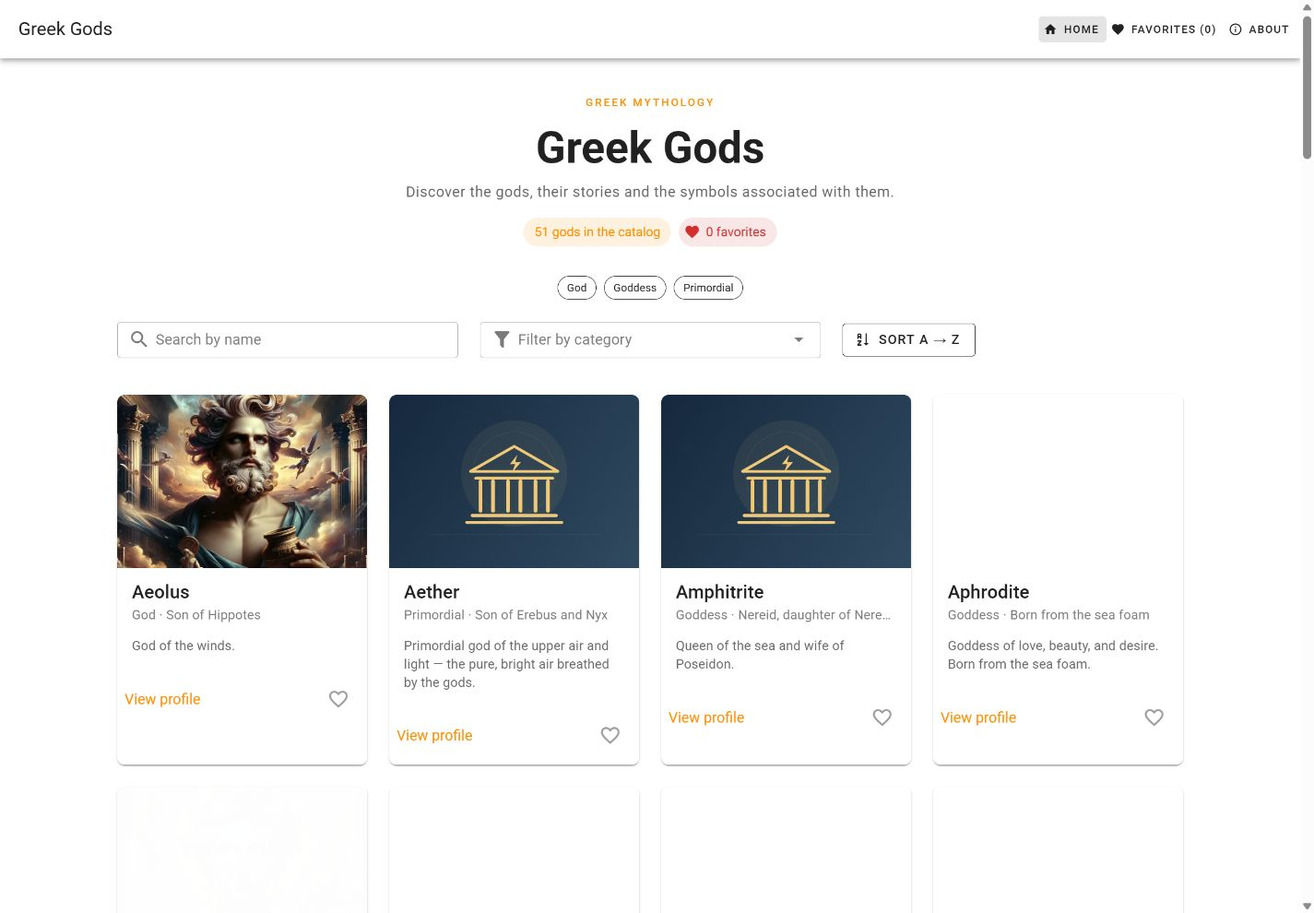
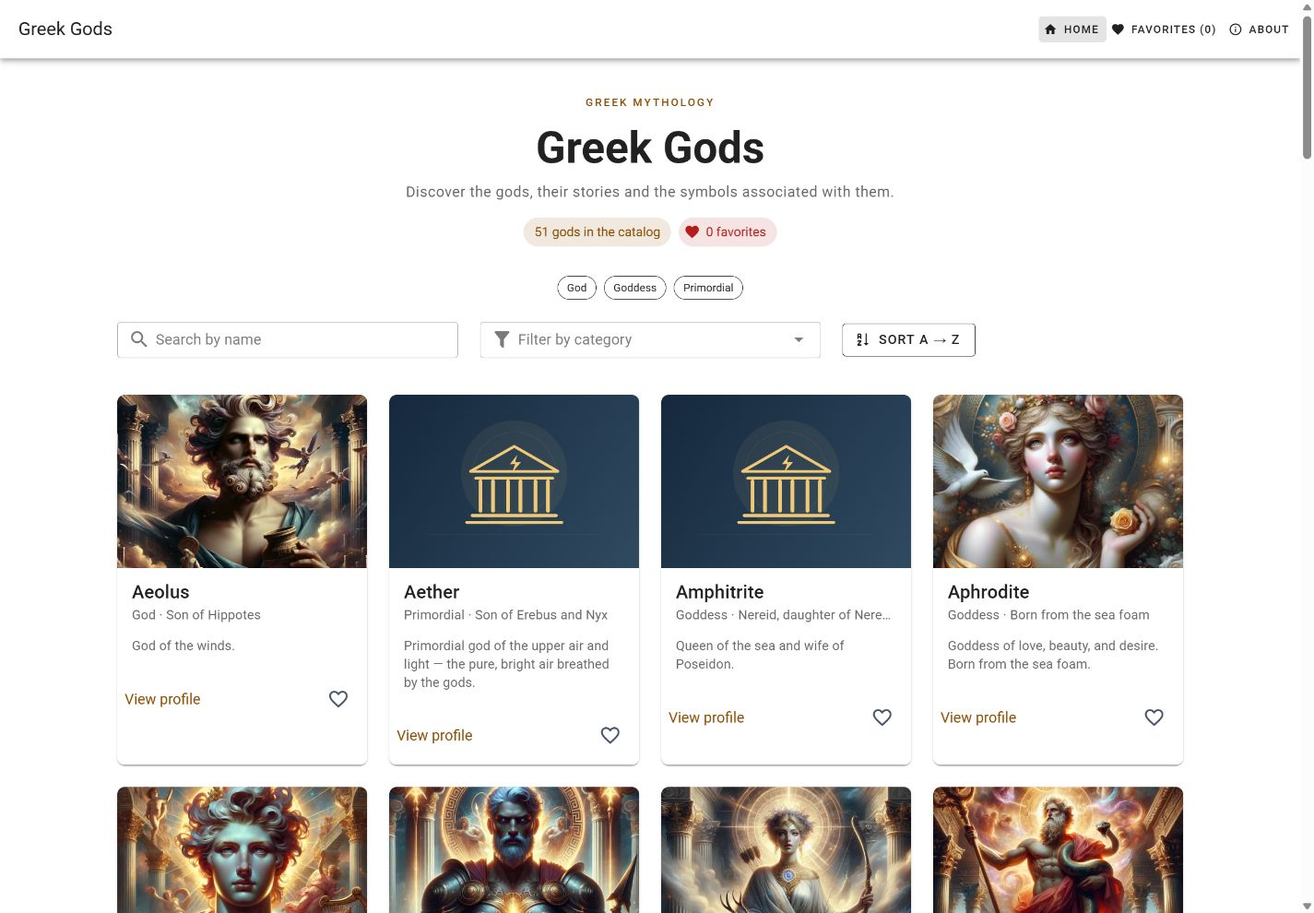
docs: align project documentation with the actual assessment brief

diff --git a/README.md b/README.md
@@ -1,143 +1,210 @@
 # Greek Gods
 
-A Vue 3 and Vuetify application for exploring Greek mythology. It loads gods from the DIVTEC API, displays their portraits and details, and lets visitors search, filter, sort and save favorites. The interface and API content are in English.
+[Live application on Vercel](https://294-projet-dieu-grec-segalor.vercel.app/) · [GitHub Pages](https://loris-seganfredo.github.io/294-projet-dieuGrec-segalor/) · [Source code](https://github.com/Loris-seganfredo/294-projet-dieuGrec-segalor)
 
-This personal project covers **sequences 1–5 (steps 1–17)** of the [DEV JS Pokédex exercise](https://devjs.ch/exercices/pokedex-vuetify/e1.html). Forms, authentication and API mutations from later sequences are outside its scope.
+This Vue 3 and Vuetify project follows the [individual assessment brief](https://tirtho.notion.site/Projet-individuel-valuatif-Application-Vue-3-Vuetify-avec-API-268e74c07f7c80e5822adb530f7a6027) and the DEV JS exercises through **sequence 5, steps 1–17**. The interface and content are in English. Forms, authentication and API mutations from later sequences are outside this delivery.
 
-- [Live site](https://loris-seganfredo.github.io/294-projet-dieuGrec-segalor/)
-- [Favorites](https://loris-seganfredo.github.io/294-projet-dieuGrec-segalor/#/favorites)
-- [Source repository](https://github.com/Loris-seganfredo/294-projet-dieuGrec-segalor)
+## 1. Project presentation
 
-## Purpose and audience
+### Concept
 
-The application is a small reference catalog for students and visitors discovering mythology. A visitor can find a deity, read its profile and keep a personal selection in the browser. The Greek mythology data adapts the course's Pokémon examples to a different subject.
+Greek Gods is a reference catalog for students and visitors discovering mythology. Visitors can find a deity, read its profile and save a personal selection. The public DIVTEC API provides names, categories, descriptions, portraits and relationships without an API key.
 
-## Screenshots
+The project adapts the course's Pokémon examples to Greek mythology. The student's personal reason for choosing this subject still needs to be recorded in section 6.
 
-Desktop, with four cards per row:
+### Main features
+
+- A responsive catalog with portraits, names and descriptions.
+- Case-insensitive name search, category filtering and A–Z/Z–A sorting.
+- Detailed profiles, an About page and unknown-page handling.
+- Favorites with immediate visual feedback and browser persistence.
+- Loading indicators, network errors with retry and empty-state messages.
+- A default Greek temple illustration for missing or failed portraits.
+- Keyboard focus indicators and contrasting colors for light and dark system themes.
+
+### Screenshots
 
 ![Greek Gods on desktop](docs/screenshots/home-desktop.png)
 
-[Mobile screenshot — one card per row](docs/screenshots/home-mobile.png)
+[Mobile screenshot](docs/screenshots/home-mobile.png) · [Dark theme screenshot](docs/screenshots/home-dark.png)
 
-These screenshots were taken from the running application during the 3 November 2026 audit.
+## 2. Learning path
 
-## Run locally
+### Resources
 
-Use Node.js 22 or later. From the project directory:
+The main learning material is the [DEV JS Pokédex exercise](https://devjs.ch/exercices/pokedex-vuetify/e1.html), adapted to the Greek API. Official Vue, Vuetify, Pinia, Vue Router and Axios documentation supports the implementation. Links are collected in section 7.
+
+### Recorded progression
+
+The dates below come from Git. They show the project's development, rather than proving individual learning or attendance at weekly meetings.
+
+| Date | Recorded work |
+| --- | --- |
+| 22 September 2026 | Initial project skeleton. |
+| 20 October | Pinia store, list/detail integration, complete API pagination and GitHub Pages base path. |
+| 26 October | Axios configuration, environment variables, loading indicators and error handling. |
+| 2 November | Search, category filter, alphabetical sorting and persistent favorites. |
+| 3 November | English interface, routing fixes, fallback images, exercise audit, then comparison with the actual assessment brief. Props/emits, API service separation, contrast and keyboard focus were improved. |
+
+The student's own account of resources studied, difficult concepts and progress is still to be supplied. Weekly teacher meetings are required by the brief; the repository does not establish whether they took place.
+
+## 3. Tools and methodology
+
+### Environment
+
+- Vue 3, Vuetify 3, Pinia, Vue Router, Axios and Vite.
+- npm for dependency installation; ESLint for code checks.
+- Git and GitHub for version history; Vercel and GitHub Pages for publication.
+- OpenAI Codex desktop for the assisted implementation, review and testing described in section 5.
+
+### Installation and run
+
+Use Node.js 22 or later:
 
 ```sh
+git clone https://github.com/Loris-seganfredo/294-projet-dieuGrec-segalor.git
+cd 294-projet-dieuGrec-segalor
 npm ci
 npm run dev
 ```
 
-The API defaults to `https://apis.divtec.me/api/greek`. To change it, copy `.env.example` to `.env` and set `VITE_API_URL`, then restart Vite. No API key is required for this public endpoint. Variables beginning with `VITE_` are included in the browser bundle, so they must not contain secrets.
+Vite normally starts at `http://localhost:3000/`. Use the URL printed in the terminal if that port is occupied. Stop it with `Ctrl+C`. A separate API server is not needed.
 
-Vite starts at `http://localhost:3000/` if that port is free. Use the URL printed in the terminal. Stop the local server with `Ctrl+C`; a separate API server is not needed.
+To change the API address, copy `.env.example` to `.env`, set `VITE_API_URL` and restart Vite. The default is `https://apis.divtec.me/api/greek`. No API key is required. `.env` is ignored by Git; `.env.example` is tracked. Variables starting with `VITE_` are public in the browser bundle and must not contain secrets.
 
 ```sh
+npx eslint .
 npm run build
 npm run preview
-npx eslint .
 ```
 
-`npm run lint` also applies ESLint's automatic fixes.
+`npm run lint` also applies automatic ESLint fixes.
 
-## Implemented concepts
+### Components, props and events
 
-| Sequence | Application |
-| --- | --- |
-| 1 — Components and navigation | Responsive card grid, reusable `GodCard` with a `god` prop, home/about/detail pages and unknown-route handling. |
-| 2 — Pinia | Shared gods, categories and favorites state; getters and actions; initialization from `App.vue`. |
-| 3 — Axios and environment | Central Axios client, configurable API URL, loading/error states, request timeout and retry. |
-| 4 — Search, filter and sort | `v-model` controls and chained computed values: category → search → alphabetical sort. |
-| 5 — Favorites | Favorite IDs, toggle action, JSON/localStorage persistence, reusable cards on a dedicated favorites page and confirmation feedback. |
+`GodCard` receives two required props: `god` and `isFavorite`. It emits `toggle-favorite` with the selected god. The home and favorites pages handle that event through `useFavoriteFeedback()`, which calls the store action and updates the shared snackbar state. There is no global event bus.
 
-## How it works
+The heart uses `@click.stop.prevent`: `.stop` stops propagation to the card and `.prevent` cancels the linked card's default navigation. The detail page uses the same favorite handler. `GodImage` is reused for portraits and fallback illustrations. `AppFooter` receives its text through a slot.
 
-- `src/stores/godStore.js` loads all API pages and exposes the shared data. Favorites store IDs, not copies of complete god objects.
-- `src/pages/index.vue` derives the displayed list using computed values. Sorting operates on a copy, preserving the store's source order.
-- `src/components/GodCard.vue` displays each god and opens its detail route. The heart uses `@click.stop.prevent`: `.stop` prevents propagation, while `.prevent` cancels the link's default navigation.
-- `src/pages/gods/[id].vue` reads the route ID and retrieves the corresponding god from the store.
-- `src/pages/favorites.vue` reuses `GodCard` and displays an empty-state message when there are no favorites.
-- `src/components/GodImage.vue` displays the API portrait or a bundled Greek temple illustration when the URL is missing or the image fails to load.
-- `src/composables/favoriteFeedback.js` shares confirmation state. The snackbar lives in the layout so removing the last favorite does not destroy its confirmation.
-
-`JSON.stringify()` converts the favorite IDs into the text stored under `god_favorites`; `JSON.parse()` restores them. Favorites belong to the current browser and origin, so localhost and GitHub Pages have separate lists. They are not synchronized across devices. Obsolete IDs are removed only after a complete successful API load.
-
-## API and data flow
-
-The public DIVTEC Greek API was selected because it provides names, categories, descriptions, portraits and relationships for the project's subject without requiring authentication.
+### API choices and limits
 
 | Resource used | Purpose |
 | --- | --- |
-| `GET https://apis.divtec.me/api/greek/gods?page=1` | Load the first page and read `pagination.pages`. |
-| `GET /gods?page=2`, then subsequent pages on the same API base | Load the complete catalog before publishing it to the store. |
-| Image paths returned by the API, resolved against `https://apis.divtec.me` | Display available portraits. |
+| `GET https://apis.divtec.me/api/greek/gods?page=1` | Load the first page and read the page count. |
+| `GET /gods?page=2`, then subsequent pages on the same base | Load the entire catalog before updating the store. |
+| Image paths from the response, resolved against `https://apis.divtec.me` | Load portraits. |
 
-The list response contains `data` and `pagination`. The audit found 51 entries over three pages; this is observed API data, not a hard-coded count. Detail pages use `getGodById()` from the loaded store, so they do not make another detail request. Categories are derived from the same catalog.
+The response contains `data` and `pagination`. During verification it contained 51 entries over three pages. The count is not hard-coded. Categories are derived from the loaded objects; detail pages use the store's `getGodById()` instead of making another request.
+
+Requests have a ten-second timeout. No API quota guarantee has been verified. A failed request produces an error with a retry button. No partial catalog is published after a failed page. Favorites are cleaned only after every API page succeeds.
+
+The brief explicitly waives the mock/offline requirement for **2026–2027**. This application therefore displays an honest error instead of silently substituting fictional data.
+
+### Architecture and data flow
+
+| Location | Responsibility |
+| --- | --- |
+| `src/plugins/axios.js` | Shared Axios client and environment configuration. |
+| `src/services/godApi.js` | HTTP requests, response validation and pagination. |
+| `src/stores/godStore.js` | Shared state, getters, initialization and favorite persistence. |
+| `src/pages/` | Home, detail, favorites, About and not-found views. |
+| `src/components/` | Reusable card, image, header and footer. |
+| `src/composables/favoriteFeedback.js` | Favorite action with shared confirmation feedback. |
+| `src/plugins/vuetify.js`, `src/styles/` | Theme colors, keyboard focus and animation. |
 
 ```mermaid
 flowchart TD
-    App[App.vue onMounted] --> Init[godStore.init]
-    Init --> Restore[Restore favorite IDs]
-    Init --> Axios[Shared Axios client]
-    Axios --> API[Paginated DIVTEC API]
-    API --> Store[Pinia gods and categories]
-    Store --> Filter[Category computed]
-    Filter --> Search[Search computed]
-    Search --> Sort[Sort a copied array]
-    Sort --> Cards[GodCard on home]
-    Store --> Detail[Detail page by route ID]
-    Store --> FavoriteObjects[getFavorites]
-    FavoriteObjects --> FavoriteCards[GodCard on favorites]
-    Cards --> Toggle[toggleFavorite action]
-    FavoriteCards --> Toggle
-    Toggle --> Storage[JSON favorite IDs in localStorage]
-    Storage --> Restore
+    App[App.vue initializes once] --> Store[Pinia store]
+    Store --> Service[godApi service]
+    Service --> Axios[Axios client]
+    Axios --> API[DIVTEC API pages]
+    API --> Store
+    Store --> Computed[Category then search then sort]
+    Computed --> Page[Home page]
+    Store --> Favorites[Favorites page]
+    Page -->|god and isFavorite props| Card[GodCard]
+    Favorites -->|god and isFavorite props| Card
+    Card -->|toggle-favorite event| Handler[Page handler]
+    Handler --> Action[Store toggleFavorite]
+    Action --> Storage[JSON IDs in localStorage]
+    Handler --> Snackbar[Shared confirmation]
+    Store --> Detail[Profile selected by route ID]
 ```
 
-API availability and content are external dependencies. No quota guarantee has been verified. Requests have a ten-second timeout; an error is displayed with a retry button. The app does not silently replace a failed API response with fictional data. Favorite storage can be unavailable or cleared by browser settings, and users are warned when persistence fails.
+The computed chain derives a view of the store. Sorting uses a copied array, so it cannot reorder the source. Favorites store numeric IDs, not entire objects. `JSON.stringify()` writes them under `god_favorites`; `JSON.parse()` restores them.
 
-## Deployment and routing
+### Versioning and publication
 
-Pushing `main` runs the GitHub Pages workflow. It builds with the repository base path and publishes `dist/`.
+Work is committed by feature or correction and pushed to `main`. The 2026–2027 brief explicitly permits using `main` without weekly milestone branches. The historical commits have been preserved.
 
-The router uses hash URLs, such as `/#/gods/1`. GitHub Pages therefore serves the same entry page for every route, and refreshing a detail page does not require server rewrite rules or an HTML file for every god.
+GitHub Pages builds with the repository base path. Hash routes such as `/#/gods/1` support direct access and reloading on static hosting. The deployment script keeps older clean URLs working through redirects; `/favoris` remains an alias for `/favorites`.
 
-`scripts/create-pages-redirects.mjs` generates compatibility redirects during deployment. Previous clean URLs, including `/favoris/` and `/gods/1`, lead to their hash-route equivalents. `/favoris` remains an alias for `/favorites`. An unknown route displays the application's not-found page.
+## 4. Tests and validation
 
-## Verification checklist
+The [assessment audit](docs/assessment-audit.md) maps the actual brief to evidence and records remaining personal requirements. The [earlier exercise audit](docs/exam-audit.md) covers the sequence 1–5 baseline only.
 
-- The complete API list loads; an unavailable API produces an error message with a retry button.
-- Search is case-insensitive; clearing the field restores the list.
-- Category filtering combines with search and A–Z/Z–A sorting.
-- Clicking a card opens its detail page; clicking the heart only toggles the favorite.
-- Favorite icons and counters update immediately, with brief confirmation messages.
-- Favorites survive a reload and can be removed from the favorites page, including the last item.
-- Home, favorites, detail and unknown routes work after direct navigation and reload.
-- Browser console, production build and ESLint are checked after changes.
+The verification covers:
 
-The [sequence 1–5 audit](docs/exam-audit.md) records the criteria checked, runtime evidence and the boundaries of this verification.
+- Complete real-API loading, pagination, malformed responses, partial failure and retry.
+- Search, filter and sort combinations without mutating source data.
+- Card navigation, favorite events, persistence after reload and removal of the last favorite.
+- Keyboard activation with Tab, Enter and Space; visible focus on navigation, cards, buttons and fields.
+- Text and control contrast in light and dark themes, including tonal messages.
+- Mobile and desktop layouts, missing images, invalid IDs and unknown pages.
+- ESLint, production build, deployment status and the running public pages.
 
-## Sources and AI assistance
+The API service/store and shared favorite feedback were also checked with isolated Node scripts using the actual sources, real Vue/Pinia and simulated API/storage. These checks were assisted by Codex; they are not claimed as tests personally written or performed by the student.
 
-God descriptions, relationships and images come from the [DIVTEC Greek API](https://apis.divtec.me/api/greek/gods). Image availability and content depend on that API.
+## 5. Use of artificial intelligence
 
-The project uses [Vue](https://vuejs.org/), [Vue Router](https://router.vuejs.org/), [Pinia](https://pinia.vuejs.org/), [Vuetify](https://vuetifyjs.com/) and [Axios](https://axios-http.com/).
+### Tool and context
 
-Codex assisted with implementation, debugging, documentation and verification. This records the assistance used; it does not claim that every part was written manually or that the student has already mastered every concept.
+OpenAI Codex was used through the desktop application for implementation, explanations, debugging, source review, documentation and tests. Exact model versions used throughout earlier sessions were not recorded. Reliable authorship percentages are not available, so no percentages are invented.
 
-The tool used was OpenAI Codex through the desktop application. Exact model versions for earlier sessions and reliable percentages of manual versus assisted work were not recorded. Assistance included the Pinia/API integration, search and favorites, routing fixes, English interface, fallback image, tests and this documentation. The implementation was adapted to the actual Greek API, including its pagination and numeric IDs. Personal learning claims and authorship percentages must be supplied honestly by the student, rather than inferred from passing tests.
+### Assistance and adaptation
 
-## Limits and possible improvements
+| Area | Assistance provided and project-specific adaptation |
+| --- | --- |
+| API and store | Pagination, numeric IDs, actual Greek fields and Pinia initialization. |
+| Search and favorites | Chained computed values, ID persistence and handling of unavailable storage. |
+| Components and routing | Reusable cards, explicit props/emits, hash routes and independent heart clicks. |
+| UI and accessibility | English text, image fallback, theme contrast and visible keyboard focus. |
+| Validation and documentation | Logic checks, browser scenarios, screenshots and comparison against the supplied brief. |
 
-- Favorites are local to one browser and site address; there is no account synchronization.
-- The catalog follows the API's terminology and includes a few Roman deities. This is disclosed on the About page.
-- A missing portrait uses the default illustration. The application does not supply an invented portrait for each deity.
-- A future iteration could preserve search settings when returning from a profile, add a documented offline cache, or improve long-card text layouts.
-- Forms and authentication belong to later course sequences and are intentionally outside this delivery.
+The project started from an existing student repository. Its earlier manual contributions cannot be reliably separated from assistance by counting lines or commits. The student's own contribution and learning account is still required.
 
-## Personal reflection
+Passing tests does not prove that the student understands the implementation. The assessment requires that understanding, including the ability to explain and modify the code during the oral defense.
 
-The technical audit is complete for the documented scope. Before an oral assessment, the student still needs to explain the code and write their own account of difficulties, learning and independent contributions if requested by the teacher. Those personal statements cannot be established by an automated audit.
+## 6. Personal review
+
+### Student reflection — awaiting personal input
+
+This part must be written from the student's experience. It has not been invented by the assistant. The student needs to record:
+
+- Why Greek mythology was chosen.
+- What they implemented or understood independently.
+- The concepts they learned and those still needing practice.
+- The difficulties encountered, help received and solutions they can explain.
+- What they are proud of and what they would improve.
+
+### Technical difficulties recorded in the project
+
+The work addressed API pagination, publishing under a GitHub Pages subpath, invalid routes, favorite persistence, clicks on a heart inside a linked card, failed portraits and insufficient color contrast. These are observed project issues; they are not claims of personal mastery.
+
+### Current limits and possible improvements
+
+- Favorites belong to one browser and site address. They do not synchronize across devices.
+- API availability and portrait content are external dependencies. The default image covers absent or broken portraits.
+- The API includes a few Roman deities and provides its own categories. The About page explains this.
+- For a much larger catalog, visual pagination or load-more controls could limit rendered cards. The current catalog contains 51 entries.
+- Search state could be retained when returning from a profile. An offline cache could be added later if needed.
+- Forms and authentication belong to later course sequences and are outside the requested scope.
+
+## 7. References and sources
+
+- [Actual individual assessment brief, 2026–2027](https://tirtho.notion.site/Projet-individuel-valuatif-Application-Vue-3-Vuetify-avec-API-268e74c07f7c80e5822adb530f7a6027).
+- [DEV JS Pokédex exercises, steps 1–17](https://devjs.ch/exercices/pokedex-vuetify/e1.html).
+- [DIVTEC Greek API endpoint](https://apis.divtec.me/api/greek/gods), source of descriptions, relationships and portraits.
+- [Vue documentation](https://vuejs.org/guide/introduction.html), [Vuetify components](https://vuetifyjs.com/en/components/all/), [Pinia](https://pinia.vuejs.org/), [Vue Router](https://router.vuejs.org/) and [Axios](https://axios-http.com/).
+- W3C guidance: [text contrast](https://www.w3.org/WAI/WCAG22/Understanding/contrast-minimum.html), [control contrast](https://www.w3.org/WAI/WCAG22/Understanding/non-text-contrast.html), [visible focus](https://www.w3.org/WAI/WCAG22/Understanding/focus-visible.html).
+- AI assistance is described in section 5.

diff --git a/docs/assessment-audit.md b/docs/assessment-audit.md
@@ -1,0 +1,79 @@
+# Individual assessment audit
+
+Date: 3 November 2026. Reference: the [teacher's Notion assessment brief](https://tirtho.notion.site/Projet-individuel-valuatif-Application-Vue-3-Vuetify-avec-API-268e74c07f7c80e5822adb530f7a6027), read in full, including the 2026–2027 exceptions and README template.
+
+This assessment is broader than the exercise checklists. The earlier [sequence 1–5 audit](exam-audit.md) did not establish full compliance with this brief. It did not adequately verify contrast, explicit component events or the required documentation structure.
+
+## Findings and corrections
+
+| Finding | Change |
+| --- | --- |
+| The card used props but performed its own store action; no explicit business emit was demonstrated. | `GodCard` now receives `god` and `isFavorite`, emits `toggle-favorite`, and the pages handle the event. |
+| Several orange/gray labels and tonal colors lacked sufficient contrast. | Semantic light/dark theme colors replace the fixed colors, including info/warning/error messages. Subtitle opacity is explicitly set to 1 to avoid double attenuation. |
+| Default focus feedback was subtle. | A contrasting 3px keyboard outline is applied to buttons and linked cards; field outlines use the primary color. |
+| HTTP pagination and validation lived inside the store. | The dedicated `services/godApi.js` handles requests and returns a complete validated catalog. Pinia retains application state and actions. |
+| README structure did not match the seven required sections. | README reorganized into presentation, learning, tools/method, tests, AI use, personal review and references. Unverified personal claims remain explicitly pending. |
+
+## Requirements and evidence
+
+| Assessment requirement | Current evidence | Status |
+| --- | --- | --- |
+| Vue 3 + Vuetify 3, public HTTPS/JSON API | Dependencies and DIVTEC integration; 51 real entries loaded | Verified |
+| List and complete detail view | Reusable cards and `pages/gods/[id].vue` | Verified |
+| Relevant search, filter and sort | Case-insensitive name search, category select, alphabetical toggle | Verified |
+| Interactive feature with visible state | Heart icon/color, counter, animation and snackbar | Verified |
+| Persistence after reload | Favorite IDs serialized in `god_favorites`; real browser reload tested | Verified |
+| At least two Vue Router routes | Home, detail, favorites, About and unknown route | Verified |
+| Loading, error and empty states | Skeleton/status, retryable error alert, empty catalog/search/favorites messages | Verified |
+| User feedback and invalid navigation | Snackbar, storage/network alerts, missing god/page messages | Verified |
+| Modular components, clear props/emits | Required card props, declared `toggle-favorite` event, shared image/header/footer | Verified |
+| Global state and dedicated API code | Pinia store, Axios client and API service; no global event bus | Verified |
+| Responsive layout | One column on mobile, four on desktop, no horizontal overflow in the tested views | Verified |
+| Explicit labels and keyboard access | Search/select labels, heart labels and state, image alt text; Tab/Enter/Space tested | Verified |
+| Visible keyboard focus | Card/button outline and 2px focused field outline observed | Verified |
+| Correct basic contrast | Light/dark text, icon and tonal colors checked; see ratios below | Verified for checked colors |
+| Pagination if the list is too large | API pagination is complete; 51 cards use lazy images. Visual pagination is not unconditionally required by the brief. | Appropriate to current data |
+| Mock/offline fallback | Explicitly waived for 2026–2027 | Not required this year |
+| Weekly milestone branches | Explicitly waived for 2026–2027; `main` is allowed | Not required this year |
+| Clean repository and meaningful commits | Existing history preserved; corrections committed by purpose | Verified |
+| Public deployment and installation instructions | Vercel/Pages, clone/install/run, `.env.example` and build commands | Verified separately from code |
+| Seven-section README, screenshots, references, AI declaration | Technical sections completed and screenshots updated | Present |
+| Personal learning path, contributions and reflection | Factual Git chronology and assistance are documented; the student's own account is not supplied | Student input required |
+| Weekly teacher meetings | Required by the brief; cannot be proven by the repository | Student confirmation required |
+| Oral defense and possible live modification | Topics and a demo sequence are listed below | Must be demonstrated by the student |
+
+## Validation after the corrections
+
+- **13 assertions** passed for the shared favorite action/feedback, including persistence, snackbar restart and removal of the final favorite.
+- **39 assertions** passed against the real API-service/store sources with simulated Axios/storage: complete pagination, malformed responses, simultaneous/repeated initialization, a failed second page, preservation of favorites and successful retry.
+- In the browser, Tab reached the heart, Enter added a favorite and Space removed it without navigating. Enter on the card opened the correct profile.
+- Adding a favorite from the profile, reloading, then removing it from the favorites page worked. The empty state and removal confirmation remained visible.
+- The focused search field had a solid 2px primary-colored outline at full opacity. Navigation and favorite buttons showed the explicit 3px outline.
+- Both light and dark themes were rendered and inspected. A separate local test configuration forced dark mode without changing the user's system settings or production theme selection.
+- The normal application checks produced no application error. An unrelated browser-extension error appeared in one development tab and was distinguished from the application's output.
+
+`npx eslint .` passed without code errors, and `npm run build` successfully transformed 359 modules. The two isolated scripts also passed when rerun after the service extraction (52 assertions in total). Deployment status and public browser checks are recorded in the delivery message rather than inferred from a local build.
+
+### Contrast evidence
+
+The text threshold used is 4.5:1; control boundaries/icons use 3:1. Calculations include Vuetify's 12% tonal overlay. Values below are the lower result on a plain or tonal surface for each theme.
+
+| Color role | Light minimum | Dark minimum |
+| --- | ---: | ---: |
+| Primary / warning | 5.66:1 | 7.96:1 |
+| Secondary | 6.34:1 | 6.93:1 |
+| Favorite | 5.36:1 | 5.93:1 |
+| Info | 4.85:1 | 7.11:1 |
+| Error | 5.83:1 | 7.23:1 |
+
+Subtitle text uses a single medium-emphasis alpha with opacity 1. The resulting contrast is approximately 5.74:1 on white and 8.48:1 on the dark card surface. This is a targeted basic-accessibility review, not a full WCAG certification.
+
+Sources: [W3C text contrast](https://www.w3.org/WAI/WCAG22/Understanding/contrast-minimum.html), [non-text contrast](https://www.w3.org/WAI/WCAG22/Understanding/non-text-contrast.html), [visible focus](https://www.w3.org/WAI/WCAG22/Understanding/focus-visible.html).
+
+## Personal work still required
+
+The README cannot truthfully be marked fully complete until the student supplies their own learning account and contribution details. No invented authorship percentages or claims of personal understanding have been inserted. The brief permits declared AI help but requires understanding and adaptation of the code.
+
+The stated submission deadline is **Tuesday 10 November 2026 at 23:59**, for code and documentation. Weekly teacher follow-ups and the oral defense are personal obligations, not features the application can implement.
+
+Suggested oral demo: load the catalog; combine category, search and sort; open a profile; add a favorite; reload to show persistence; remove it from Favorites; explain loading/error/empty states. Be prepared to explain props versus emits, Pinia, the API service, computed values, localStorage and `.stop.prevent`, and to make a small live change.

diff --git a/docs/exam-audit.md b/docs/exam-audit.md
@@ -1,5 +1,7 @@
 # Sequence 1–5 audit
 
+> Historical baseline at commit `3bf6040`, before the actual Notion assessment brief was supplied. This report validates the exercises only. The [assessment audit](assessment-audit.md) supersedes any conclusion about the complete exam requirements, particularly accessibility, props/emits and personal documentation.
+
 Date: 3 November 2026. Scope: the current DEV JS exercise, steps **1–17**, adapted to the Greek Gods project. The complete articles, tasks, tests and personal-project checklists were read. Later sequences are excluded at the student's request.
 
 Result: no missing functional criterion was found in this scope. One ESLint formatting error in `AppHeader.vue` was corrected. The README was completed with screenshots, purpose, actual API endpoints, data flow, limitations and an honest assistance statement.
